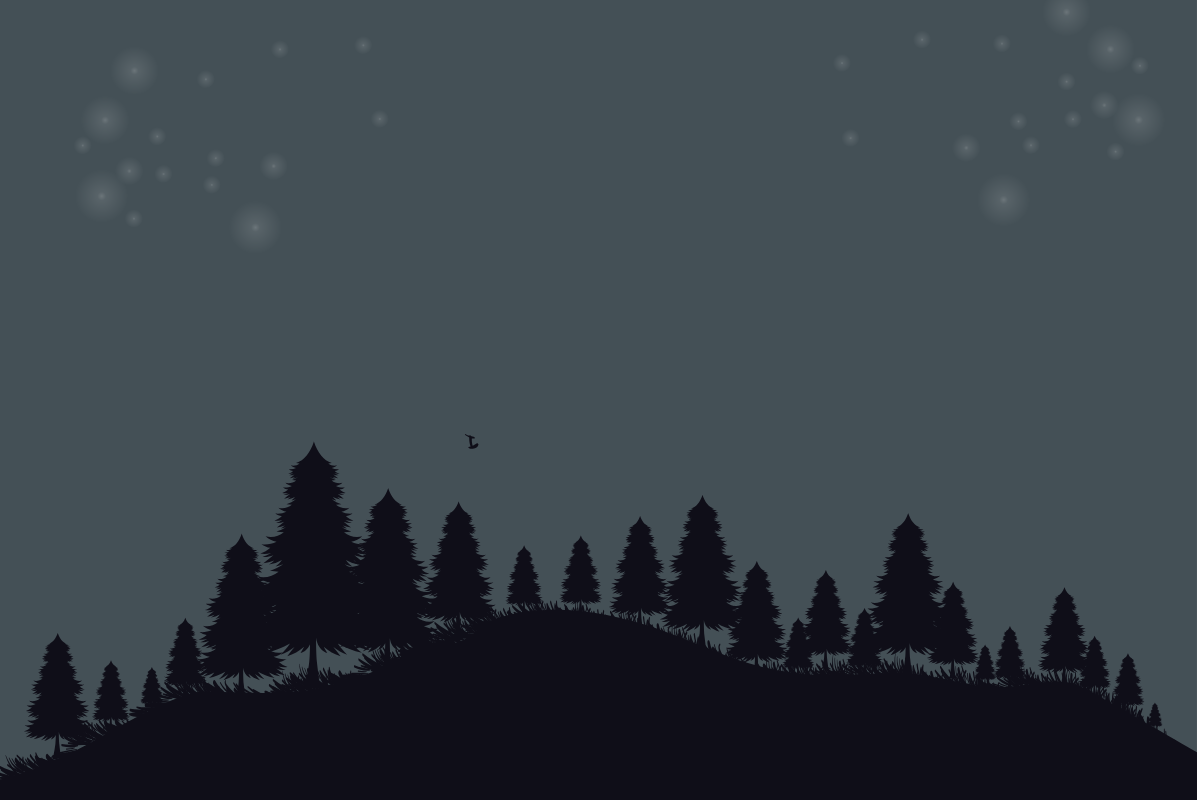
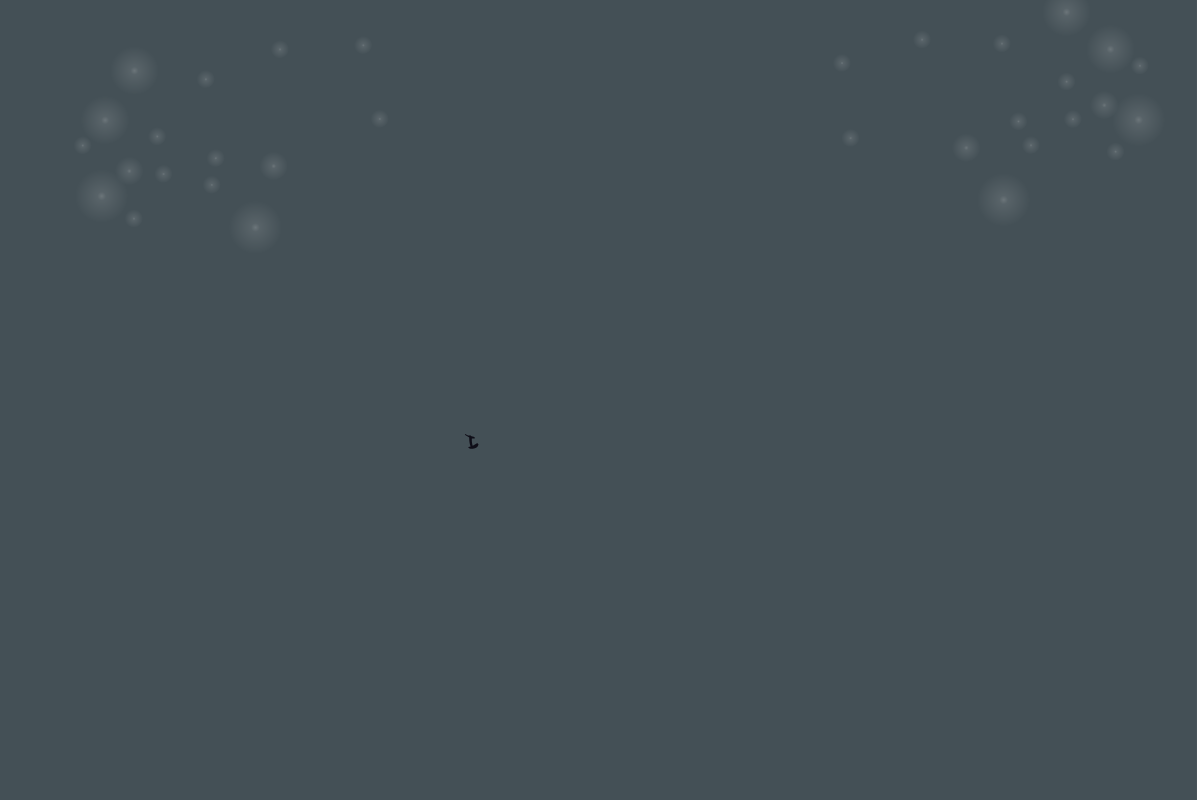
Change: Parallax sky.png como background fixed

Changed region(s): [[0.0, 0.5625, 1.0, 1.0]]

diff --git a/index.html b/index.html
@@ -73,8 +73,7 @@
         <div class="article-container">
 
             <section id="home" class="article-section">
-                <div class="parallax">                        
-                    <img src="/assets/sky.png">    
+                <div class="parallax">
                     <img src="/assets/moon.png" id="moon">
                     <h2 id="welcome">Welcome <br> I'm <span class="typing"></span></h2>
                     <img src="/assets/tree.png" id="tree">                                

diff --git a/css/style.css b/css/style.css
@@ -330,6 +330,10 @@ clase dropdown_arrow se le agregar un transform para rotar la flecha 180°*/
     align-items: center;
     width: 100%;
     height: 100vh;
+    
+    background: url(/assets/sky.png);
+    background-size: cover;
+    background-attachment: fixed;
 }
 .parallax img{
     position: absolute;
